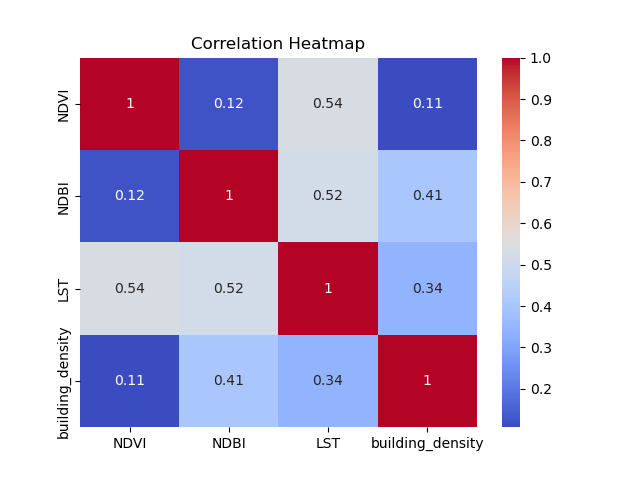
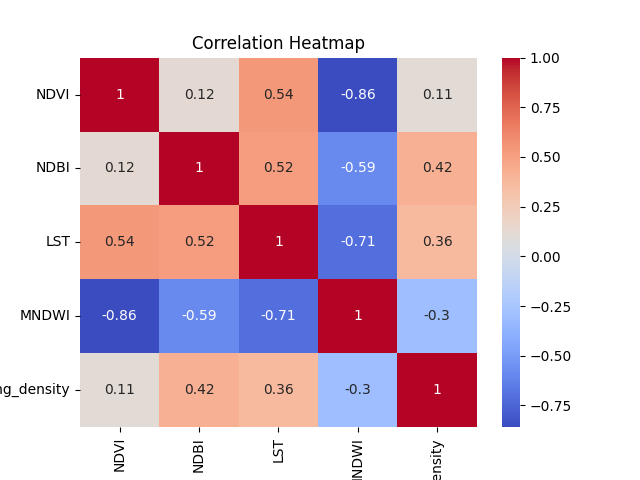
Train the model including the water feature

diff --git a/notebooks/02_data_exploration.py b/notebooks/02_data_exploration.py
@@ -27,6 +27,7 @@ feature_cmaps = {
     "LST": "hot",
     "NDVI": "YlGn",
     "NDBI": "RdGy",
+    "MNDWI": "Blues",
     "building_density": "viridis",
 }
 
@@ -56,7 +57,7 @@ plt.show()
 # ---------------------- 
 # 3. Correlation Heatmap
 # ----------------------
-corr = borough_data[["NDVI", "NDBI", "LST", "building_density"]].corr()
+corr = borough_data[["NDVI", "NDBI", "LST", "MNDWI", "building_density"]].corr()
 sns.heatmap(corr, annot=True, cmap="coolwarm")
 plt.title("Correlation Heatmap")
 plt.savefig(f"../figures/correlation_heatmap_{borough_name.replace(' ', '_')}.png")
@@ -68,9 +69,9 @@ plt.show()
 # 4. Histograms of Features
 # ----------------------
 
-features = ["NDVI", "NDBI", "LST", "building_density"]
+features = ["NDVI", "NDBI", "LST", "MNDWI", "building_density"]
 
-borough_data.hist(column=features, bins=30, figsize=(12, 8), layout=(2, 2), grid=False)
+borough_data.hist(column=features, bins=30, figsize=(12, 8), layout=(2, 3), grid=False)
 plt.suptitle("Feature Distributions in " + borough_name)
 #plt.savefig(f"../figures/feature_distributions_{borough_name.replace(' ', '_')}.png")
 plt.show()

diff --git a/notebooks/data_processing.py b/notebooks/data_processing.py
@@ -11,6 +11,7 @@ from config import ADMINISTRATIVE_AREA
 # Download the buildings table
 # download_buildings_osmnx(ADMINISTRATIVE_AREA, KEEP_COLS, req_timeout=600)
 
+
 # Load raw tables
 buildings_df = gpd.read_file("../data/osmnx_buildings.gpkg")
 landsat_gdf = load_landsat_data("London_LST_NDVI_NDBI.tif")
@@ -43,8 +44,6 @@ print('Buildings After:', buildings_df_clean.shape)
 cells = points_to_cells(landsat_gdf_clean)          # auto-infers lon/lat resolution separately
 density_grid = compute_density(buildings_df_clean, cells)
 london_urban_design_df = attach_density_to_points(landsat_gdf_clean, density_grid)
-
-london_urban_design_df.shape
 
 
 # ======================

diff --git a/notebooks/density_functions.py b/notebooks/density_functions.py
@@ -9,7 +9,7 @@ sys.path.append("../")
 # CONFIG
 # ----------------------------------------------------------------------
 
-OUT_DIR = "./data/"
+OUT_DIR = "../data/"
 
 # Columns worth keeping out of the ~1700+ sparse OSM tag columns.
 # Add/remove freely depending on what you actually need downstream.
